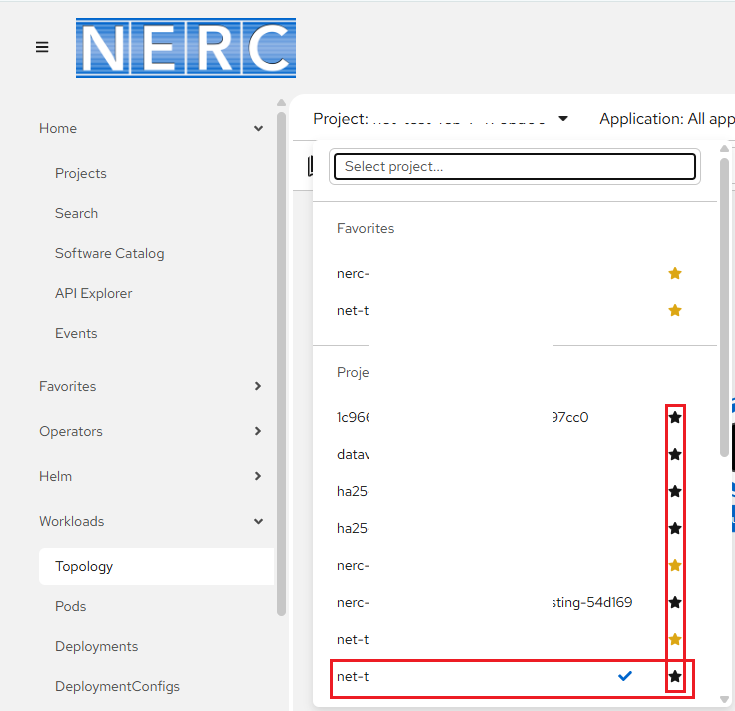
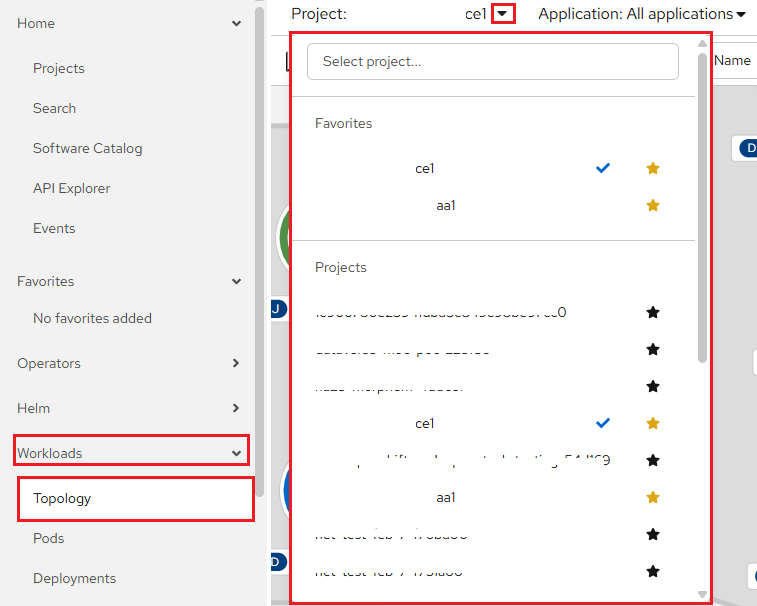
updated OCP dashboard description

diff --git a/docs/openshift/logging-in/web-console-overview.md b/docs/openshift/logging-in/web-console-overview.md
@@ -1,7 +1,11 @@
 # Web Console Overview
 
-The NERC's OpenShift Container Platform (OCP) has a web-based console that can be
-used to perform common management tasks such as building and deploying applications.
+The NERC's OpenShift Container Platform (OCP) provides a web-based console that
+enables users to perform common management tasks such as building and deploying
+applications. It now features a **single unified view** within the OpenShift
+console, offering a more comprehensive and cohesive interface for all tasks. This
+enhancement simplifies navigation and allows developers and administrators to
+manage their environments seamlessly from one centralized dashboard.
 
 You can find it at [https://console.apps.shift.nerc.mghpcc.org](https://console.apps.shift.nerc.mghpcc.org).
 
@@ -32,7 +36,9 @@ sections of the NERC's OpenShift Web Console:
 
         You can identify the currently selected project with **tick** mark and also
         you can click on **star** icon to keep the project under your **Favorites**
-        list.
+        list:
+
+        ![Project Favorite List](images/project-fav-list.png)
 
 3. User Preferences - Shown the option to get and copy the OpenShift Command Line
    _oc login command_ and set your individual console preferences including default
@@ -69,12 +75,37 @@ the project by clicking on the project name in that list as shown below:
 Clicking on the **Home** -> **Search** menu allows you to search any resources
 based on search criteria like Label or Name.
 
+#### Software Catalog
+
+Easily discover, explore, and deploy tools from a centralized catalog built to
+streamline your workflow
+
+-   Centralizes all available software for faster discovery and access.
+
+-   Improved categorization for easier browsing.
+
+-   Supports consistent deployment flows.
+
+![Software Catalog](images/software-catalog.png)
+
 #### Events
 
-Clicking on the **Home** -> **Search** menu provides you with a Dashboard to view
+Clicking on the **Home** -> **Events** menu provides you with a Dashboard to view
 the resource usage and also other metrics and events that occured on your project.
 Here you can identify, monitor, and inspect the usage of Memory, CPU, Network,
 and Storage in your project.
+
+### Favorites
+
+Pin frequently used items to the top for quick access whenever you need them.
+
+![Adding to Favorites](images/add-ocp-favorites.png)
+
+-   Reduce time spent searching for commonly used pages and resources.
+
+-   Customize the interface to match your personal workflow.
+
+![OCP new unified perspective](images/ocp-favorites.png)
 
 ### Helm
 
